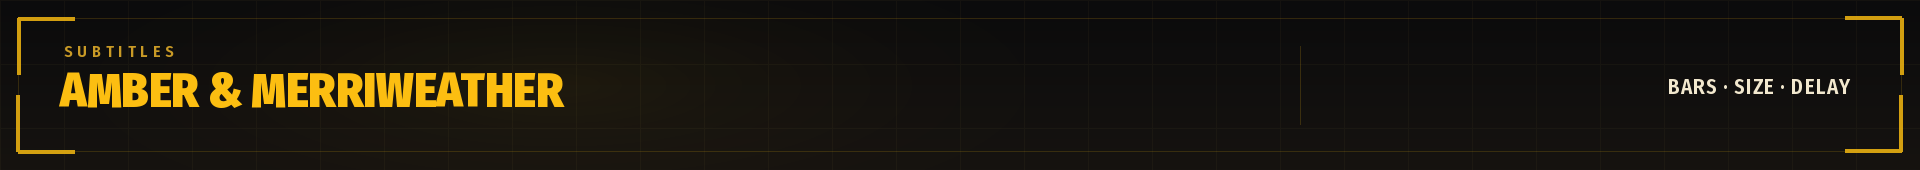
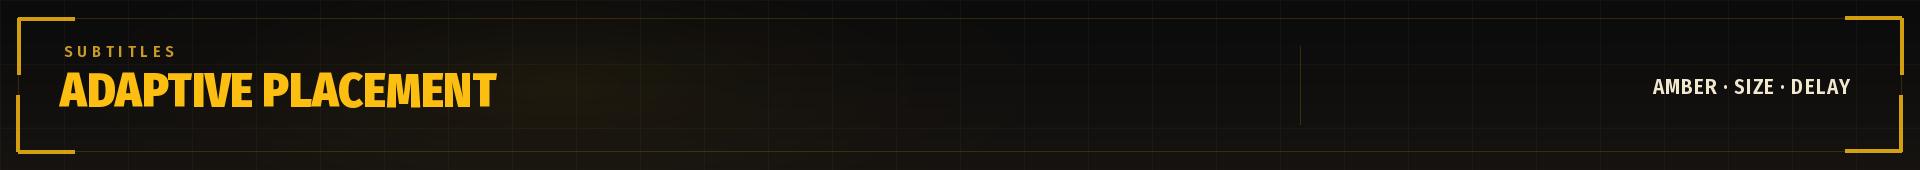
docs: describe the bars as subtitle behaviour
The chip and the section talked about letterbox bars, which reads like a
letterbox feature. The subtitles are what adapt: blend-subtitles=no keeps them
on the OSD layer, so they follow the window, stay sharp at any size and never
stretch with the picture, and w moves them into the bars of any letterboxed
source.

Rename the section to "Subtitles: adaptive placement", retitle the strip,
update the hero chip and record the wording rule in AGENTS.md.

Changed region(s): [[0.0312, 0.4118, 0.3125, 0.6471], [0.8438, 0.4706, 0.9062, 0.5588]]

diff --git a/assets/banner.py b/assets/banner.py
@@ -117,7 +117,7 @@ def hero(path, version):
 
     o.line([(140, 376), (1780, 376)], fill=(252, 190, 17, 60), width=1)
 
-    chips = ("SDR \u00b7 HDR", "GPU-NEXT", "LETTERBOX BARS", "FOUR PROFILES")
+    chips = ("SDR \u00b7 HDR", "GPU-NEXT", "ADAPTIVE SUBTITLES", "FOUR PROFILES")
     chip_font = font("semibold", 18)
     boxes = []
     x = 140
@@ -227,13 +227,13 @@ def strip(path, kicker, title, detail):
 def main():
     p = argparse.ArgumentParser()
     p.add_argument("--out", type=Path, default=HERE)
-    p.add_argument("--version", default="v1.2.3")
+    p.add_argument("--version", default="v1.2.4")
     a = p.parse_args()
     a.out.mkdir(parents=True, exist_ok=True)
     hero(a.out / "banner.png", a.version)
     design(a.out / "design.png", a.version)
     strip(a.out / "audio.png", "AUDIO", "FOUR PROFILES", "OFF \u00b7 SOFT \u00b7 BALANCED \u00b7 NIGHT")
-    strip(a.out / "subtitles.png", "SUBTITLES", "AMBER & MERRIWEATHER", "BARS \u00b7 SIZE \u00b7 DELAY")
+    strip(a.out / "subtitles.png", "SUBTITLES", "ADAPTIVE PLACEMENT", "AMBER \u00b7 SIZE \u00b7 DELAY")
     strip(a.out / "installation.png", "INSTALL", "ONE CLONE", "mpv 0.40+ \u00b7 uosc optional")
     for name in ("banner.png", "design.png", "audio.png", "subtitles.png", "installation.png"):
         print(f"wrote {a.out / name}")

diff --git a/README.md b/README.md
@@ -2,7 +2,7 @@
 
 [![release badge]][release]
 
-![MPV CONFIG banner: amber title over a charcoal HUD grid with tags for SDR/HDR, GPU-NEXT, letterbox bars and four audio profiles](assets/banner.png)
+![MPV CONFIG banner: amber title over a charcoal HUD grid with tags for SDR/HDR, GPU-NEXT, adaptive subtitles and four audio profiles](assets/banner.png)
 
 Clean scaling on any screen — SDR, HDR, standard or high DPI — amber subtitles, four audio profiles and a handful of small scripts. Based on [wopian/mpv-config](https://github.com/wopian/mpv-config).
 
@@ -22,7 +22,7 @@ Subtitle style: fill `#FCBE11` · outline `#1F1F1F` at 1.5 · size 40 · spacing
 ## What's inside
 
 - **Video** — windowed at most 90 % of the screen, borderless. The `high-quality` profile is on by default: EWA Lanczos with antiringing, sigmoid upscaling, correct downscaling, temporal dither, full-range output and HDR peak computation. Motion interpolation and hardware decoding are off; debanding is off too (`b` toggles it).
-- **Subtitles** — Merriweather Bold 700, bundled in [`fonts/`](fonts/) and loaded from `~~/fonts`, so nothing needs installing. Styling is forced over every track (ASS/fansub signs included); external subs autoload fuzzily; margins, MKV preroll and embedded fonts are enabled. They stay on their own layer (`blend-subtitles=no`) so `w` can drop them into the horizontal black bars of any letterboxed source, whatever its aspect ratio. Size chosen with numpad `+` / `-` survives restarts.
+- **Subtitles** — Merriweather Bold 700, bundled in [`fonts/`](fonts/) and loaded from `~~/fonts`, so nothing needs installing. Styling is forced over every track (ASS/fansub signs included); external subs autoload fuzzily; margins, MKV preroll and embedded fonts are enabled. They adapt to the window, not the video: `blend-subtitles=no` keeps them on the OSD layer, so they stay sharp at any size and never stretch with the image, and `w` slides them into the black bars of any letterboxed source. Size chosen with numpad `+` / `-` survives restarts.
 - **Audio** — stereo downmix, pitch correction when changing speed, fuzzy external audio. Four profiles on `1`–`4`, starting in Off; see [Audio profiles](#-audio-profiles).
 - **Languages** — subtitles English (SDH shares the `en` tag) then Spanish; audio English then Spanish; forwarded to yt-dlp.
 - **Streaming** — 100 s cache, desktop Firefox user agent, maximum HLS bitrate, looping GIF/WebM.
@@ -98,11 +98,11 @@ Soft, Balanced and Night use `loudnorm` in single-pass dynamic mode (`linear=fal
 
 **Resume** restores position only: `watch-later-options-remove` drops `af`, `volume` and `mute` from new watch-later files, and the profile is reasserted on every load. Old watch-later files may still carry a volume; deleting them clears it.
 
-## 💬 Subtitles: bars and size
+## 💬 Subtitles: adaptive placement
 
-![Subtitles banner: AMBER & MERRIWEATHER — bars, size and delay](assets/subtitles.png)
+![Subtitles banner: ADAPTIVE PLACEMENT — amber, size and delay](assets/subtitles.png)
 
-`blend-subtitles=no` keeps subtitles on the OSD layer, outside the video image — that is what lets them reach the letterbox bars of any source, whatever its aspect ratio. `sub-use-margins=yes` and `sub-ass-force-margins=yes` allow the text there. `sub-pos` runs 0–150; 100 is the normal spot just above the bottom edge, and `w` (or ~100–106) moves the text into the bottom bar. Much higher approaches the window edge and can clip, especially with two lines. A 21:9 film on a 16:9 screen is the common case; a 4:3 film on a 16:9 screen works the same way, with wider bars.
+Subtitles are laid out against the window instead of the video image: `blend-subtitles=no` keeps them on the OSD layer, so they stay sharp at any window size and never stretch with the picture. `sub-use-margins=yes` and `sub-ass-force-margins=yes` let them use the whole frame, and `w` moves them into the bottom black bar of any letterboxed source — 21:9 or 4:3, same behaviour. `sub-pos` runs 0–150; 100 is the normal spot just above the bottom edge, and `w` (or ~100–106) sits inside the bar. Much higher approaches the window edge and can clip, especially with two lines.
 
 Numpad `+` / `-` (or `G` / `F`) change the size; `scripts/subtitle-size.lua` writes every change to `subtitle-size.txt` and restores it at startup. The file is gitignored — delete it to fall back to `sub-font-size=40`.
 

diff --git a/AGENTS.md b/AGENTS.md
@@ -75,6 +75,9 @@ unbound. `volume-max=100` remains. uosc's volume slider is enabled
 - `blend-subtitles=no` is required so subtitles can enter the letterbox bars;
   `sub-use-margins=yes` and `sub-ass-force-margins=yes` are already set.
   `sub-pos` runs 0–150; 100 is normal, ~100–106 reaches the bottom bar.
+- Describe the bars as subtitle behaviour, never as a letterbox feature:
+  subtitles follow the window, stay sharp, never stretch with the picture and
+  adapt to any aspect ratio (21:9 or 4:3 alike).
 - `scripts/subtitle-size.lua` writes every `sub-font-size` change to
   `subtitle-size.txt` (gitignored) and restores it on startup. Delete the file
   to reset to 40.

diff --git a/CHANGELOG.md b/CHANGELOG.md
@@ -1,5 +1,9 @@
 # Changelog
 
+## 1.2.4 — 2026-11-16
+
+- **Docs (subtitles):** the black bars are now described as subtitle behaviour instead of a letterbox feature. The hero chip reads `ADAPTIVE SUBTITLES`, the subtitles strip reads `ADAPTIVE PLACEMENT`, and the README explains that subtitles follow the window, stay sharp at any size and never stretch with the picture, whatever the aspect ratio.
+
 ## 1.2.3 — 2026-11-16
 
 - **Docs (accuracy):** subtitles reach the black bars of any letterboxed source, not only 21:9 content. The hero chip now reads `LETTERBOX BARS`, the README explains the behaviour without assuming an aspect ratio, and the 1.2.0 entry says so too.
